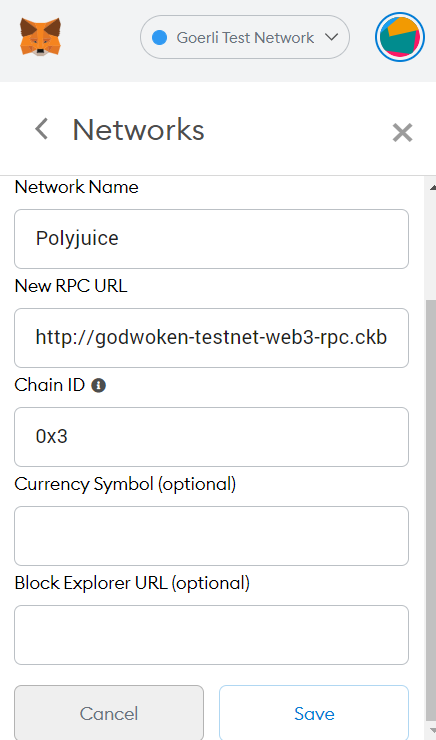
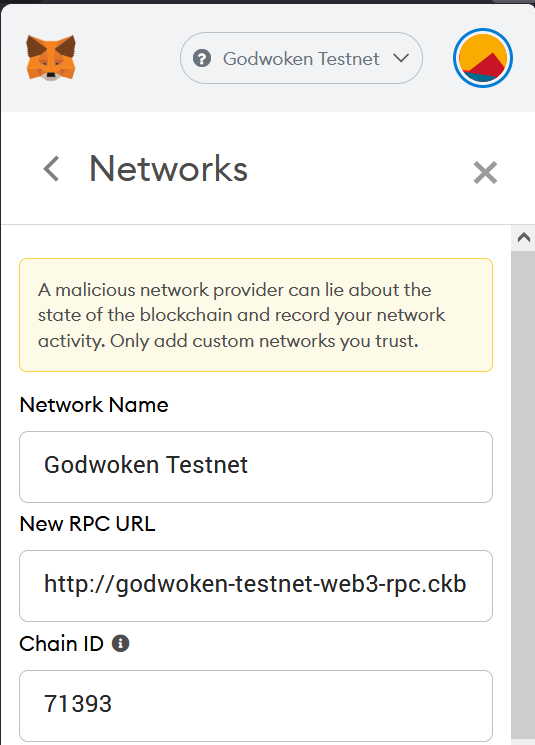
Update deploy eth contract code

diff --git a/src/examples/2-deploy-contract/index.js b/src/examples/2-deploy-contract/index.js
@@ -1,5 +1,5 @@
 const Web3 = require('web3');
-const { PolyjuiceHttpProviderCli } = require("@polyjuice-provider/web3");
+const { PolyjuiceHttpProvider, PolyjuiceAccounts } = require("@polyjuice-provider/web3");
 
 const contractName = process.argv.slice(2)[0];
 
@@ -9,46 +9,44 @@ if (!contractName) {
 
 const CompiledContractArtifact = require(`./build/contracts/${contractName}`);
 
[1 lines of base64/hex data omitted]
-const USER_ONE_ETH_ADDRESS = '0xD173313A51f8fc37BcF67569b463abd89d81844f'; 
[1 lines of base64/hex data omitted]
 const GODWOKEN_RPC_URL = 'http://godwoken-testnet-web3-rpc.ckbapp.dev';
 
 const polyjuiceConfig = {
-    web3Url: GODWOKEN_RPC_URL,
-    godwoken: {
[1 lines of base64/hex data omitted]
-        eth_account_lock: {
[1 lines of base64/hex data omitted]
-            hash_type: 'type'
-        }
-    }
[2 lines of base64/hex data omitted]
+    web3Url: GODWOKEN_RPC_URL
 };
-
-const provider = new PolyjuiceHttpProviderCli(
+  
+const provider = new PolyjuiceHttpProvider(
     GODWOKEN_RPC_URL,
     polyjuiceConfig,
-    [],
-    USER_ONE_PRIVATE_KEY
 );
 
 const web3 = new Web3(provider);
 
+web3.eth.accounts = new PolyjuiceAccounts(polyjuiceConfig);
+const deployerAccount = web3.eth.accounts.wallet.add(DEPLOYER_PRIVATE_KEY);
+web3.eth.Contract.setProvider(provider, web3.eth.accounts);
+
 (async () => {
     console.log(`Deploying contract...`);
+
     const deployTx = new web3.eth.Contract(CompiledContractArtifact.abi).deploy({
         data: getBytecodeFromArtifact(CompiledContractArtifact),
         arguments: []
     }).send({
-        from: USER_ONE_ETH_ADDRESS,
+        from: deployerAccount.address,
+        to: '0x' + new Array(40).fill(0).join(''),
         gas: 6000000,
-        gasPrice: '0'
+        gasPrice: '0',
     });
 
     deployTx.on('transactionHash', hash => console.log(`Transaction hash: ${hash}`));
 
-    const contract = await deployTx;
+    const receipt = await deployTx;
 
-    console.log(`Deployed contract address: ${contract.options.address}`);
+    console.log(`Deployed contract address: ${receipt.contractAddress}`);
 })();
 
 function getBytecodeFromArtifact(contractArtifact) {

diff --git a/src/tasks/2.deploy.eth.contract.md b/src/tasks/2.deploy.eth.contract.md
@@ -67,7 +67,7 @@ If `src/examples/2-deploy-contract/build/contracts/SimpleStorage.json` (or other
 
 In the [`/src/examples/2-deploy-contract/` directory](/src/examples/2-deploy-contract/) there is everything you need to deploy a smart-contract to Nervos Layer 2. 
 
-First, change the Ethereum private key used to deploy in [/src/examples/2-deploy-contract/index.js](/src/examples/2-deploy-contract/index.js). Put there your Ethereum private key to the Ethereum account that you've deposited funds from Layer 1 to.
+First, change the Ethereum private key used to deploy in [/src/examples/2-deploy-contract/index.js](/src/examples/2-deploy-contract/index.js). Put there your Ethereum private key to the Ethereum account that you've deposited funds from Layer 1 to. Name of the variable to change is: `DEPLOYER_PRIVATE_KEY`.
 
 Run [/src/examples/2-deploy-contract/index.js](/src/examples/2-deploy-contract/index.js) script via console:
 
@@ -83,11 +83,8 @@ node index.js SimpleStorage.json
 ```txt
 ➜ node index.js SimpleStorage.json
 Deploying contract...
-it is very dangerous to sign with private-key, please use it carefully and only use in test development!
-keep waitting for tx_receipt..
-...
-Transaction hash: 0x77f9547b275a69f691b1a37ed2579fb63073a492fda9949c83cc0a2c658fff37
-Deployed contract address: 0x1f6755d06b82881E7C4664918ADD59FEf0FB77f2
+Transaction hash: 0x266c4887b8ad47456cc12e135858d8cd96b4795f8a93036b18d917df970781ec
+Deployed contract address: 0xC46e27169824290EcaEf6E14503C1a6DE72d41B0
 ```
 
 </details>

diff --git a/src/tasks/3.issue.contract.call.md b/src/tasks/3.issue.contract.call.md
@@ -3,14 +3,14 @@
 ## 1. Change your MetaMask setting to custom network with Godwoken testnet Polyjuice chain.
 
 ```sh
-Network Name: Polyjuice
+Network Name: Godwoken Testnet
 New RPC URL: http://godwoken-testnet-web3-rpc.ckbapp.dev
-Chain ID: 0x3
+Chain ID: 71393
 ```
 
-<img src="images/metamask-custom-rpc.png" width="40%" />
+<img src="../images/metamask-custom-rpc.png" width="40%" />
 
-<img src="images/metamask-save-network.png" width="40%" />
+<img src="../images/metamask-save-network.png" width="40%" />
 
 ## 2. write a small js script using `web3.js` to call your contract
 
